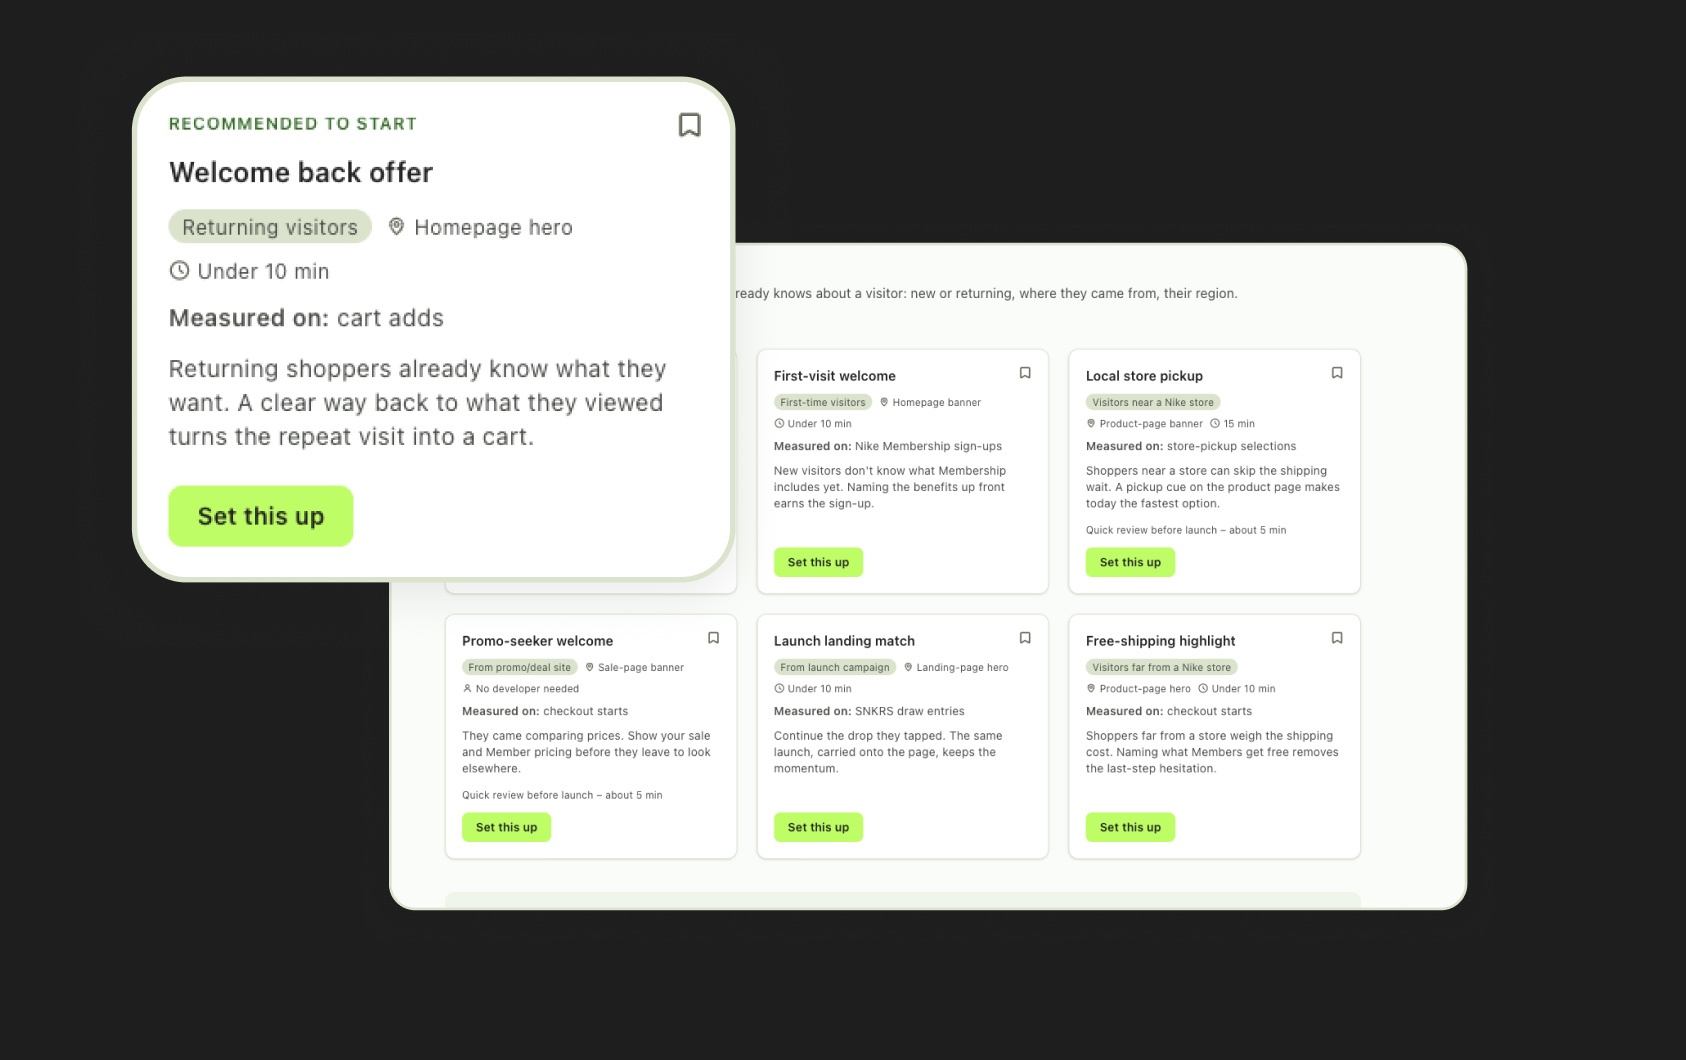
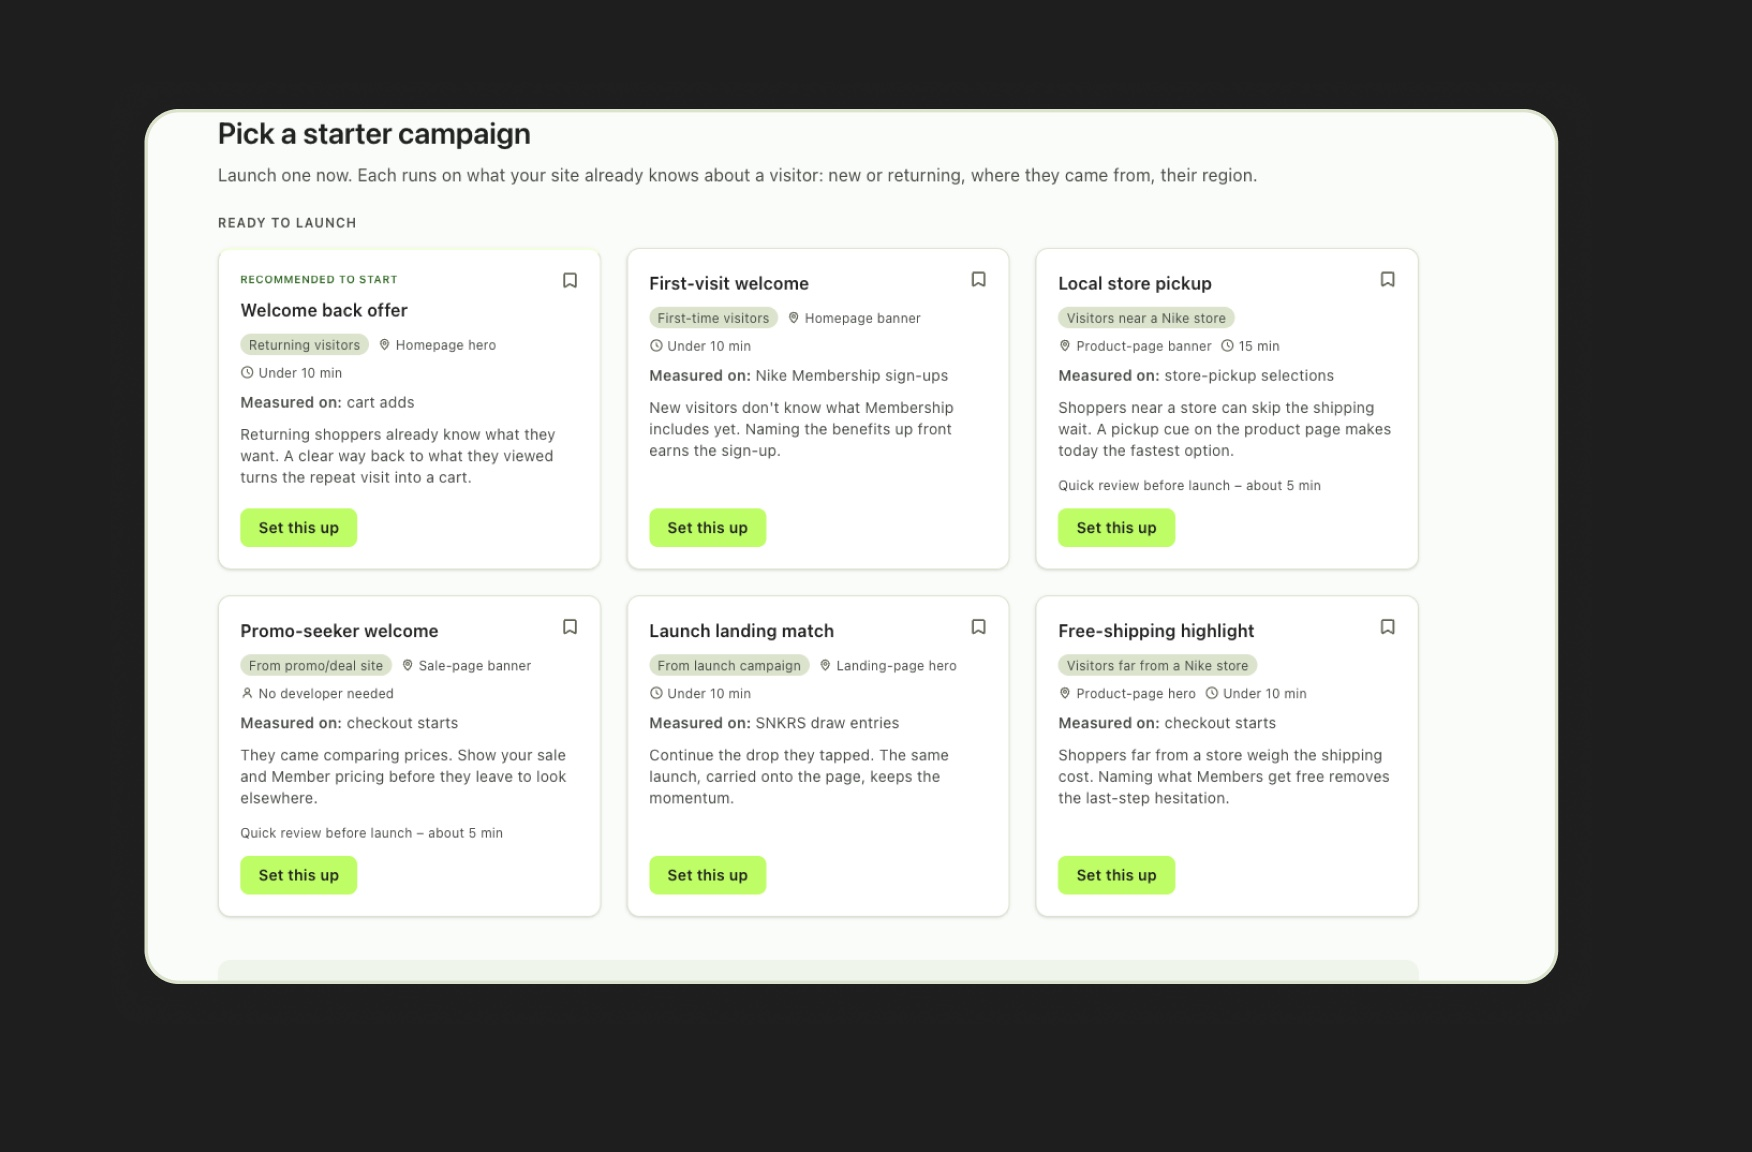
Replace solution2 photo, add spacing above solution1
- Swapped solution2.jpg for a cleaner shot of the full starter-campaign
  picker (was an overlapping detail-card crop); cache-busted the src
  since the filename didn't change
- Added top margin above the first solution screenshot so it isn't
  flush against the research-to-built table

Claude-Session: https://claude.ai/code/session_015wTbX7du7cguauG6YJdiND

Changed region(s): [[0.0617, 0.0623, 0.8944, 0.8717], [0.7711, 0.5292, 0.8019, 0.5604]]

diff --git a/optimizely.html b/optimizely.html
@@ -213,13 +213,13 @@
             </tbody>
           </table>
 
-          <figure class="case-media-inline case-media-board">
+          <figure class="case-media-inline case-media-board case-media-lead">
             <img src="images/solution1.jpg"
                  alt="The nudge on the experiments page — a drafted campaign surfaced above the marketer's existing A/B test list" />
           </figure>
           <figure class="case-media-inline case-media-board">
-            <img src="images/solution2.jpg"
-                 alt="A recommended campaign card in detail, in front of the full campaign gallery it was pulled from" />
+            <img src="images/solution2.jpg?v=2"
+                 alt="The starter campaign picker, showing all six ready-to-launch campaigns a marketer can choose from" />
           </figure>
           <figure class="case-media-inline case-media-board">
             <img src="images/solution3.jpg"

diff --git a/styles.css b/styles.css
@@ -1635,6 +1635,7 @@ div.case-media-inline::before {
   padding: 28px;
   display: block;
 }
+.case-media-lead { margin-top: 40px; }
 .case-media-board img,
 video.case-media-board {
   display: block;
